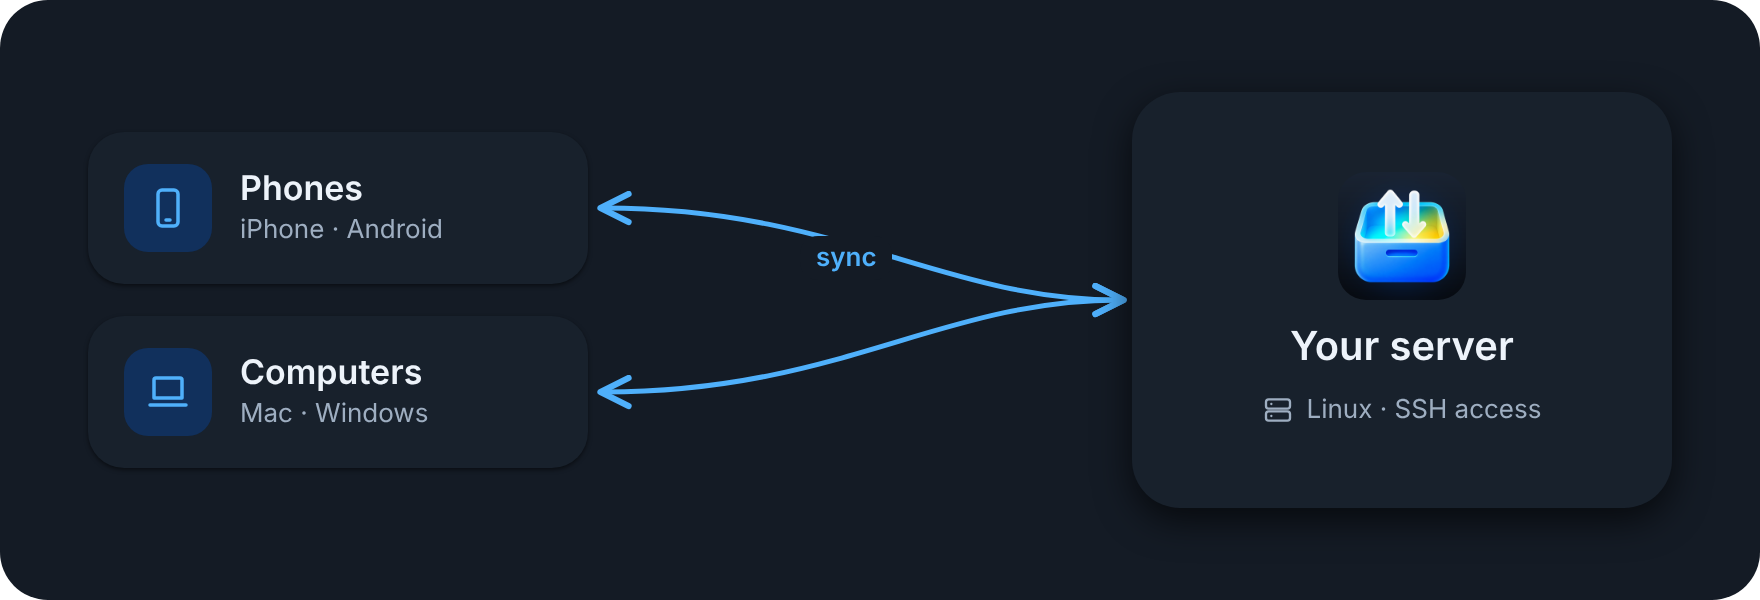
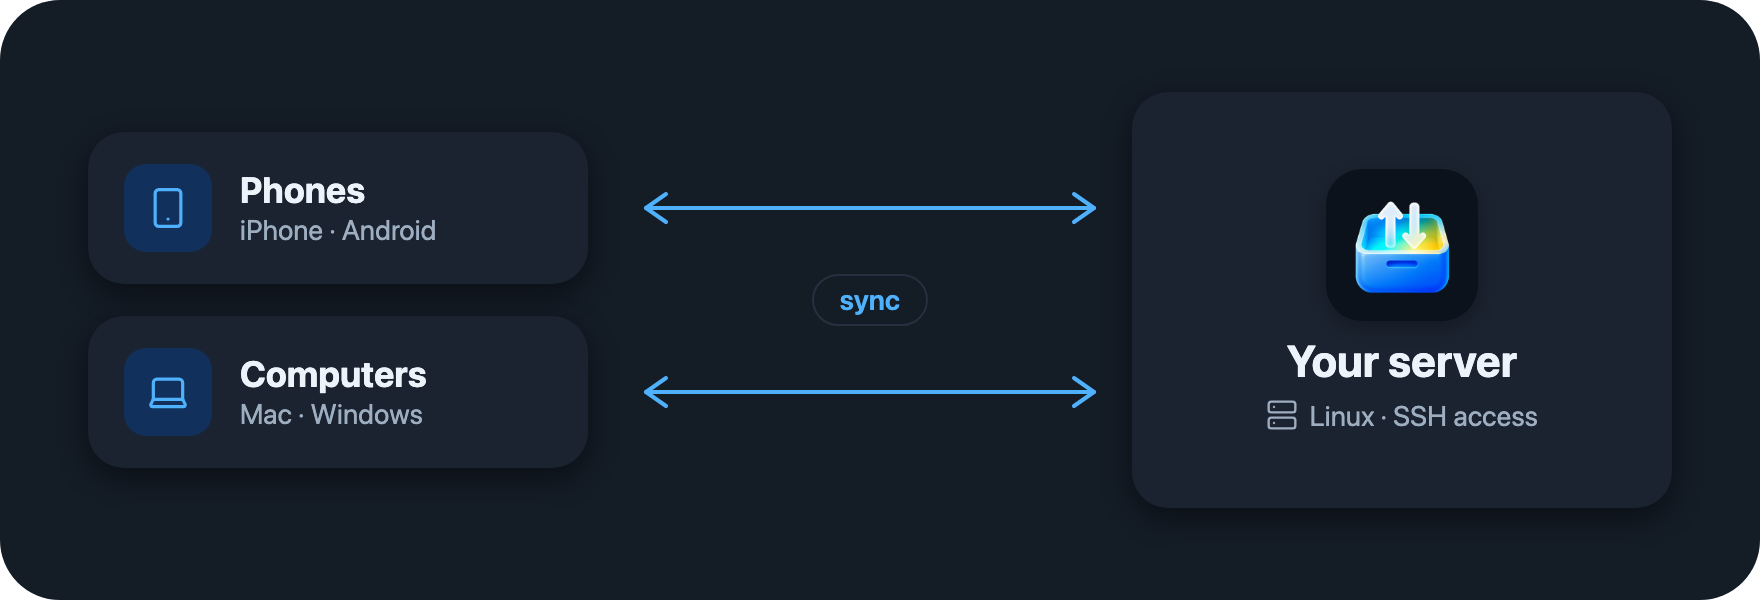
docs: update README screenshots and sync diagram
Screenshots now match the current app (own messages on the left, paperclip
instead of plus, Lucide icons). The sync diagram is redrawn with straight
arrows and a clear label. The attach hint in both READMEs mentions the paperclip.

diff --git a/README.ru.md b/README.ru.md
@@ -39,7 +39,7 @@ StashTrash — это «Избранное» из мессенджера, тол
 
 - **Ваши данные — у вас.** Сервер ваш, и правила хранения тоже ваши. Объём ограничен только диском сервера.
 - **Одно место для всего, что жалко потерять.** Больше не нужно писать самому себе в мессенджере, вести заметки отдельно, держать облачный диск и пересылать файлы себе на почту.
-- **Перекинуть файл с телефона на компьютер — одно действие.** Перетащите файл в окно, вставьте из буфера или нажмите «+».
+- **Перекинуть файл с телефона на компьютер — одно действие.** Перетащите файл в окно, вставьте из буфера или нажмите на скрепку.
 - **Отправить сейчас, разобрать потом.** При отправке ничего не нужно выбирать. Папку и теги можно назначить позже.
 
 ## Возможности

diff --git a/README.md b/README.md
@@ -39,7 +39,7 @@ Your files and the database live on your server. You don't have to set it up by 
 
 - **Your data stays with you.** It's your server, so the storage rules are yours. The only limit is your server's disk.
 - **One place for everything you don't want to lose.** No more texting yourself in a messenger, keeping notes somewhere else, running a cloud drive and emailing files to yourself.
-- **Phone to computer in one move.** Drag a file into the window, paste it, or tap "+".
+- **Phone to computer in one move.** Drag a file into the window, paste it, or use the paperclip.
 - **Send now, sort later.** Sending asks for nothing. Folders and tags can be added afterwards.
 
 ## Features
